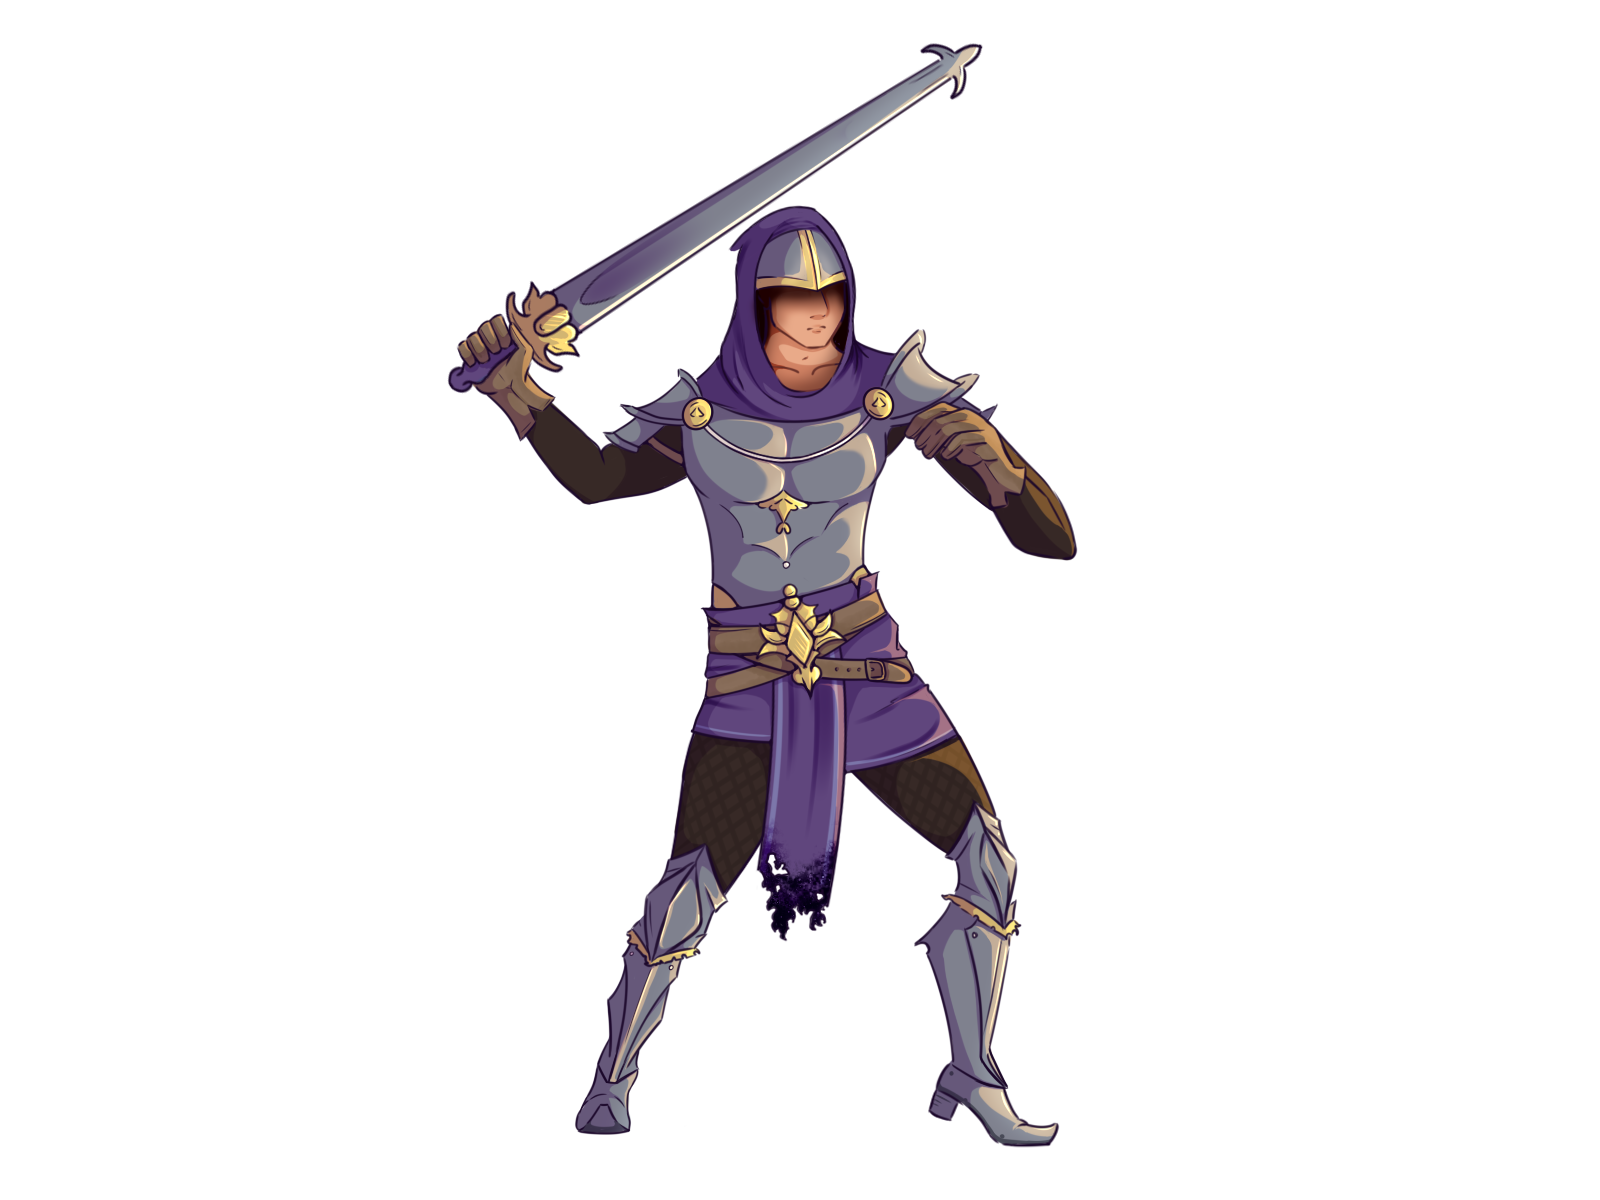
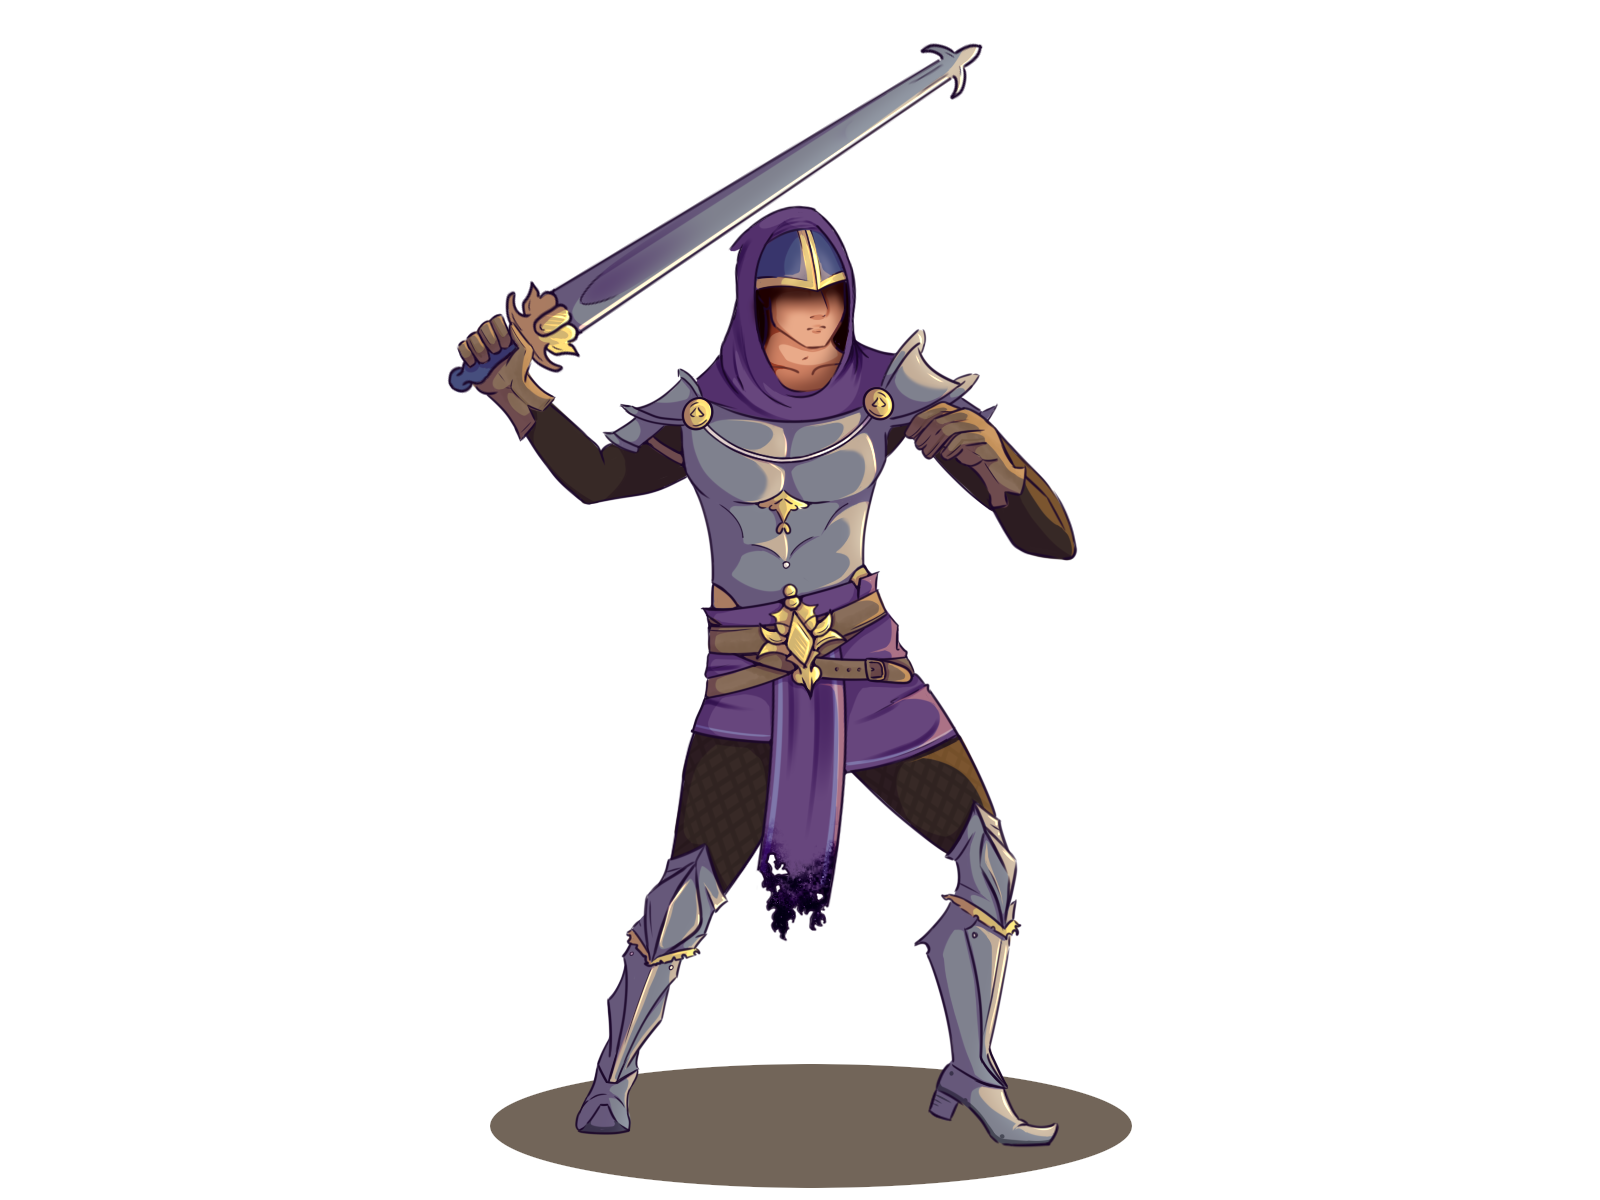
New healthbar, sprites w/ shadows, mc size changed

Changed region(s): [[0.2812, 0.8633, 0.7188, 1.0], [0.4688, 0.185, 0.5312, 0.2467], [0.2812, 0.3083, 0.3125, 0.3392]]

diff --git a/The-Path-of-Nuala/src/app/components/game/scripts/player.ts b/The-Path-of-Nuala/src/app/components/game/scripts/player.ts
@@ -30,8 +30,9 @@ export class player implements Character {
         this.currentTurnSprite = PIXI.Sprite.from(playerSprites.WARRIOR);
         this.currentTurnSprite.anchor.set(0.5)
         this.currentTurnSprite.x = 200;
-        this.currentTurnSprite.y = 300;
-        this.currentTurnSprite.scale.set(0.25);
+        this.currentTurnSprite.y = 280;
+       
+        this.currentTurnSprite.scale.set(0.32);
 
         this.namePlate = new PIXI.Text(this.charName,nameplateStyle);
         this.namePlate.anchor.set(0.5);
@@ -60,6 +61,7 @@ export class player implements Character {
                 this.hp = this.MAX_HP + 20; // Ajusta la vida para el guerrero
                 this.dmg = 15; // Ajusta el daño para el guerrero
                 this.currentTurnSprite.texture = PIXI.Texture.from(playerSprites.WARRIOR);
+                
                 break;
             case 'mage':
                 this.hp = this.MAX_HP - 10; // Ajusta la vida para el mago
@@ -115,8 +117,8 @@ export class player implements Character {
             playerhealthbar.barHealth.visible=false;
         }else{
             this.hp -= damage;
-            playerhealthbar.barHealth.width-=(1.65*damage);
-            playerhealthbar.barHealth.x+=(1.65*damage)/8;
+            playerhealthbar.barHealth.width-=(1.25*damage);
+            playerhealthbar.barHealth.x+=(1.25*damage)/10;
         }
     }
 
@@ -142,11 +144,11 @@ export class player implements Character {
             break
             case playerActions.HEALTH_UP:{
                 this.hp+=10;
-                if(playerhealthbar.barHealth.width+(1.65*10)>=165){
-                    playerhealthbar.barHealth.width=165;
+                if(playerhealthbar.barHealth.width+(1.25*10)>=120){
+                    playerhealthbar.barHealth.width=200/1.6;
                 }else{
                     playerhealthbar.barHealth.width+=(1.65*10);
-                    playerhealthbar.barHealth.x-=1.3;
+                    playerhealthbar.barHealth.x=150;
                 }    
                 this.currentStatusSprite.visible = false;
                 console.log("CURITA")

diff --git a/The-Path-of-Nuala/src/app/components/game/scripts/healthbarLogic.ts b/The-Path-of-Nuala/src/app/components/game/scripts/healthbarLogic.ts
@@ -8,15 +8,15 @@ export class healthbar{
     constructor(){
         this.playerHealth=new PIXI.Sprite(PIXI.Texture.from(healthbarEn.HEALTH_BAR));
         this.playerHealth.x=95;
-        this.playerHealth.y=40;
-        this.playerHealth.width=120*1.5;
-        this.playerHealth.height=38*1.5;
+        this.playerHealth.y=15;
+        this.playerHealth.width=300/1.6;
+        this.playerHealth.height=150/1.6;
 
         this.barHealth=new PIXI.Sprite(PIXI.Texture.from(healthbarEn.BAR));
         this.barHealth.anchor.set(0);
-        this.barHealth.x=120;
-        this.barHealth.y=48;
-        this.barHealth.width=165;
-        this.barHealth.height=40;
+        this.barHealth.x=150;
+        this.barHealth.y=30;
+        this.barHealth.width=200/1.6;
+        this.barHealth.height=100/1.6;
     }
 }

diff --git a/The-Path-of-Nuala/src/app/enums/enums.ts b/The-Path-of-Nuala/src/app/enums/enums.ts
@@ -52,10 +52,11 @@ export enum playerSprites{
     WARRIOR = "/assets/game-assets/hero-warrior.png",
     MAGE = "/assets/game-assets/hero-mage.png",
     ROGUE = "/assets/game-assets/hero-rogue.png",
+
 }
 export enum healthbarEn{
-    HEALTH_BAR = "/assets/game-assets/gui/healthbar.png",
-    BAR="/assets/game-assets/gui/bar.png"
+    HEALTH_BAR = "/assets/game-assets/gui/vida.png",
+    BAR="/assets/game-assets/gui/healthbar.png"
 }
 
 export enum enemyTextures{
